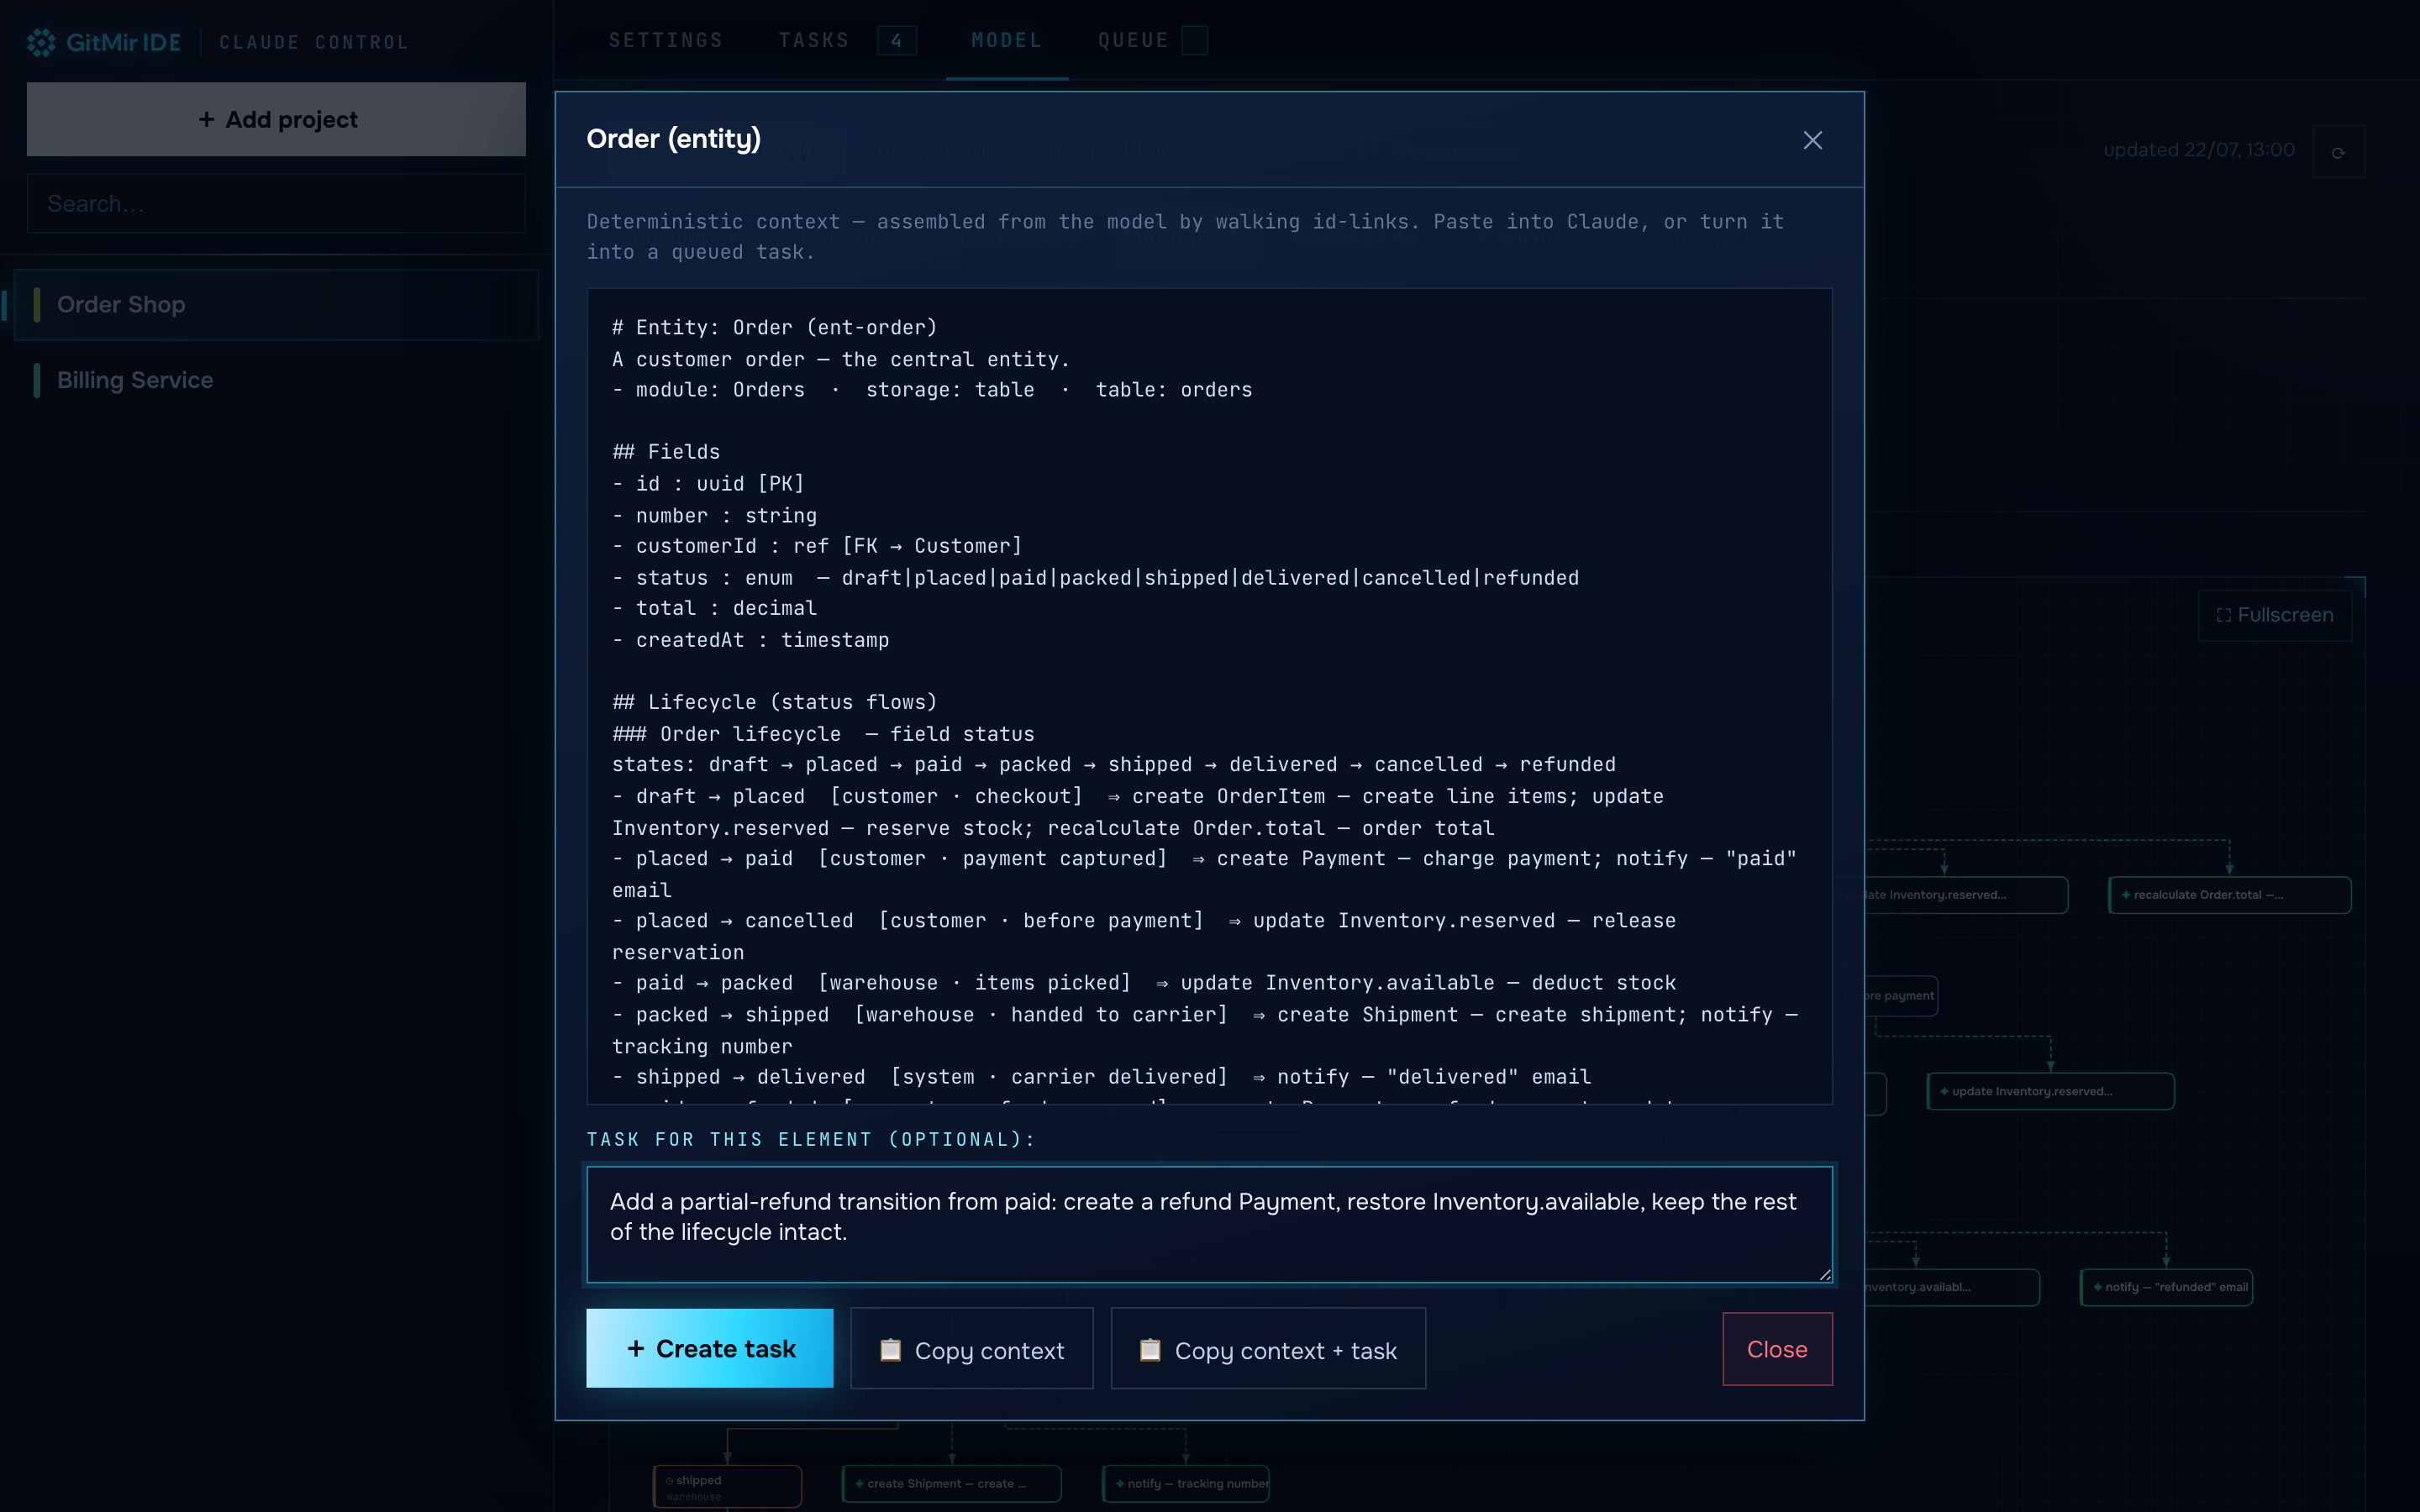
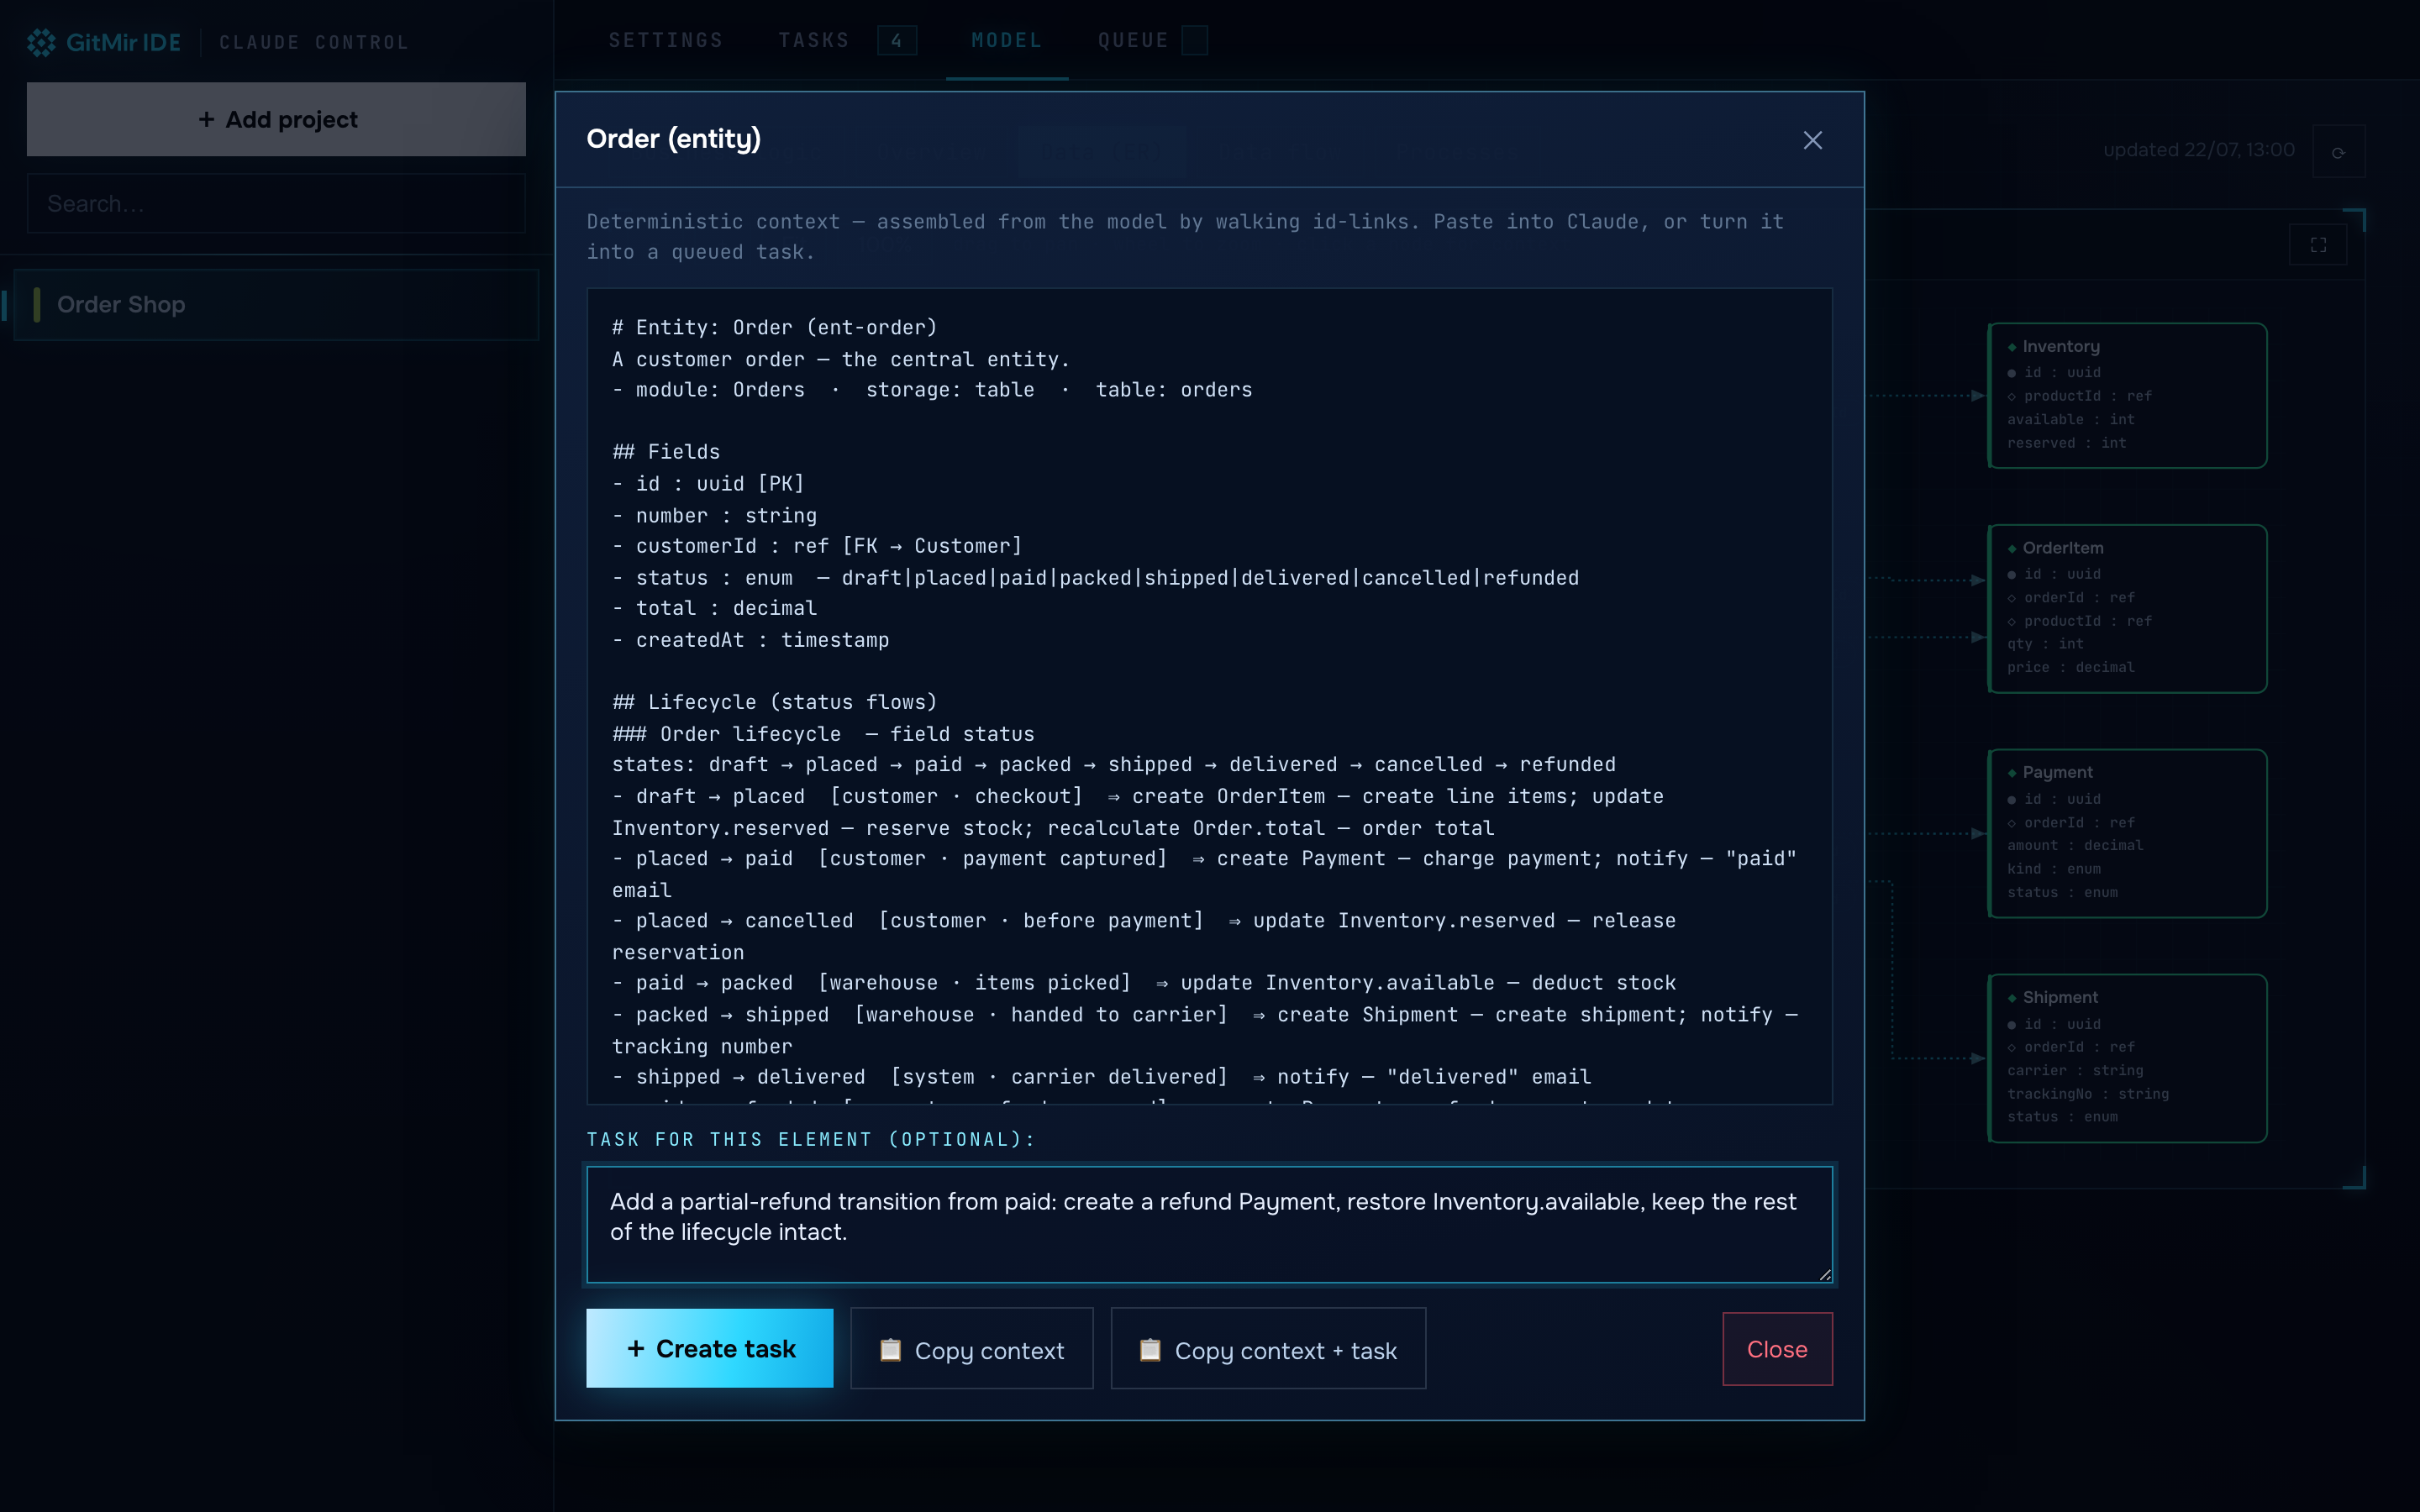
feat(diagrams): in-place pan/zoom canvas + context preamble
- Model diagrams are now a pan/zoom canvas like ide.gitmir.com: drag to pan,
  wheel zooms to the cursor, Fit / 100% / fullscreen — the same camera is used
  inline and in the fullscreen viewer (fixes the old fullscreen zoom).
- Clicking a node still opens its deterministic context; a drag no longer does.
- Copied and queued context now opens with a preamble explaining it is the
  product's GitMir information model (from .gitmir/) to use for accurate execution.
- Refresh Model screenshots to the new canvas toolbar.

diff --git a/server.js b/server.js
@@ -579,6 +579,17 @@ const HTML = /* html */ `<!doctype html>
   .mermaid-wrap svg{max-width:none; height:auto}
   .holo-wrap{overflow:auto; border:1px solid var(--line2); border-radius:12px; background:#061021; max-height:74vh; cursor:zoom-in}
   .holo-wrap svg{display:block; max-width:100%; height:auto}
+  /* pan/zoom diagram canvas (ide.gitmir.com style) */
+  .dgm{position:relative; border:1px solid var(--glass-brd); background:#061021}
+  .dgm-bar{display:flex; align-items:center; gap:6px; padding:8px 10px; border-bottom:1px solid var(--line); background:rgba(6,12,24,.72)}
+  .dgm-b{background:transparent; border:1px solid var(--faint); color:var(--ink-1); padding:5px 11px; cursor:pointer; font-size:13px; min-width:34px; line-height:1}
+  .dgm-b:hover{border-color:var(--cyan); color:var(--cyan)}
+  .dgm-hint{flex:1; color:var(--ink-3); font-family:var(--font-mono); font-size:11px; letter-spacing:.02em; white-space:nowrap; overflow:hidden; text-overflow:ellipsis; padding:0 6px}
+  .dgm-full{min-width:34px}
+  .dgm-canvas{position:relative; height:60vh; overflow:hidden; background:#061021; cursor:grab; touch-action:none}
+  .dgm-canvas.grab{cursor:grabbing}
+  .dgm-stage{position:absolute; top:0; left:0; transform-origin:0 0; will-change:transform}
+  .dgm-stage svg{display:block}
   .mmsrc{overflow:auto; max-height:220px; background:#0b0c10; border:1px solid var(--line); border-radius:8px; padding:10px; font-size:11px; color:var(--dim); margin-top:10px}
   .ov-grid{display:grid; grid-template-columns:repeat(auto-fill,minmax(108px,1fr)); gap:10px; margin-bottom:22px}
   .ov-card{background:var(--panel); border:1px solid var(--line); border-radius:12px; padding:14px 12px; text-align:center}
@@ -630,7 +641,7 @@ const HTML = /* html */ `<!doctype html>
   .fs-hint{color:var(--dim2); font-size:12px; margin-left:6px}
   .fs-close{margin-left:auto; color:var(--danger); font-weight:600}
   .fs-canvas{flex:1; overflow:hidden; position:relative; cursor:grab}
-  .fs-canvas.drag{cursor:grabbing}
+  .fs-canvas.drag, .fs-canvas.grab{cursor:grabbing}
   .fs-stage{position:absolute; top:0; left:0; transform-origin:0 0; will-change:transform}
   .fs-stage svg{display:block}
 
@@ -744,7 +755,7 @@ const HTML = /* html */ `<!doctype html>
   /* diagram frame + corner brackets (HUD signature) */
   .holo-wrap{ border:1px solid var(--glass-brd) }
   .mermaid-box{ position:relative }
-  .mermaid-box::before{ content:""; position:absolute; inset:-1px; pointer-events:none; z-index:3;
+  .dgm::before{ content:""; position:absolute; inset:-1px; pointer-events:none; z-index:3;
     --cb:14px; --cw:2px; --cc:var(--cyan);
     background:
       linear-gradient(90deg,transparent,rgba(95,222,255,.5),transparent) 50% 0/calc(100% - 48px) 1px no-repeat,
@@ -1078,15 +1089,49 @@ async function renderElk(container, spec){
   const ekById=new Map(graph.edges.map(e=>[e.id,e.ekind]));
   for(const e of (laid.edges||[])) if(!e.ekind) e.ekind=ekById.get(e.id);
   const svg=svgFromElk(laid);
-  container.innerHTML='<div class="mermaid-box"><button class="fs-open" title="Open fullscreen">⛶ Fullscreen</button>'+
-    '<div class="holo-wrap" title="Click to open fullscreen">'+svg+'</div></div>';
-  const wrap=container.querySelector('.holo-wrap');
-  container.querySelector('.fs-open').addEventListener('click', (e)=>{ e.stopPropagation(); openDiagramFullscreen(wrap.innerHTML); });
-  wrap.addEventListener('click', (e)=>{
-    const node = e.target.closest('[data-cid]');
-    if(node && node.dataset.cid){ e.stopPropagation(); openContextPopup(node.dataset.ck, node.dataset.cid); return; }
-    openDiagramFullscreen(wrap.innerHTML);
+  container.innerHTML=
+    '<div class="dgm">'+
+      '<div class="dgm-bar">'+
+        '<button class="dgm-b" data-a="out" title="Zoom out">−</button>'+
+        '<button class="dgm-b" data-a="in" title="Zoom in">+</button>'+
+        '<button class="dgm-b" data-a="fit" title="Fit to view">Fit</button>'+
+        '<button class="dgm-b" data-a="reset" title="100%">100%</button>'+
+        '<span class="dgm-hint">drag to pan · wheel to zoom · click a node for context</span>'+
+        '<button class="dgm-b dgm-full" data-a="full" title="Fullscreen">⛶</button>'+
+      '</div>'+
+      '<div class="dgm-canvas"><div class="dgm-stage">'+svg+'</div></div>'+
+    '</div>';
+  const canvas=container.querySelector('.dgm-canvas');
+  const stage=container.querySelector('.dgm-stage');
+  const svgEl=stage.querySelector('svg');
+  const pz=attachPanZoom(canvas, stage, svgEl, (ck,cid)=>openContextPopup(ck,cid));
+  container.querySelector('.dgm-bar').addEventListener('click',(e)=>{ const a=e.target&&e.target.dataset&&e.target.dataset.a; if(!a) return;
+    if(a==='in') pz.zoomCenter(1.2); else if(a==='out') pz.zoomCenter(0.83);
+    else if(a==='fit') pz.fit(); else if(a==='reset') pz.reset();
+    else if(a==='full') openDiagramFullscreen(svgEl.outerHTML);
   });
+}
+
+// Pan/zoom canvas like ide.gitmir.com's VisualBuilder: drag to pan, wheel zooms to
+// the cursor, click (not drag) a node fires onNodeClick.
+function attachPanZoom(canvas, stage, svgEl, onNodeClick){
+  let k=1, x=0, y=0;
+  if(svgEl){ svgEl.style.maxWidth='none'; svgEl.style.maxHeight='none'; }
+  const apply=()=>{ stage.style.transform='translate('+x+'px,'+y+'px) scale('+k+')'; };
+  const nat=()=>{ if(svgEl && svgEl.viewBox && svgEl.viewBox.baseVal && svgEl.viewBox.baseVal.width) return {w:svgEl.viewBox.baseVal.width, h:svgEl.viewBox.baseVal.height}; return {w:800,h:600}; };
+  const fit=()=>{ const cw=canvas.clientWidth, ch=canvas.clientHeight, n=nat(); const s=Math.min(cw/n.w, ch/n.h)*0.94; k=Math.min(1.4, Math.max(0.08, (isFinite(s)&&s>0)?s:1)); x=(cw-n.w*k)/2; y=(ch-n.h*k)/2; apply(); };
+  const reset=()=>{ k=1; x=18; y=18; apply(); };
+  const zoomAt=(f,px,py)=>{ const nk=Math.min(2.6, Math.max(0.1, k*f)); const wx=(px-x)/k, wy=(py-y)/k; k=nk; x=px-wx*k; y=py-wy*k; apply(); };
+  const zoomCenter=f=> zoomAt(f, canvas.clientWidth/2, canvas.clientHeight/2);
+  canvas.addEventListener('wheel',(e)=>{ e.preventDefault(); const r=canvas.getBoundingClientRect(); zoomAt(e.deltaY<0?1.12:0.89, e.clientX-r.left, e.clientY-r.top); }, {passive:false});
+  let drag=false, moved=false, lx=0, ly=0;
+  canvas.addEventListener('mousedown',(e)=>{ if(e.button!==0) return; drag=true; moved=false; lx=e.clientX; ly=e.clientY; canvas.classList.add('grab'); });
+  canvas.addEventListener('mousemove',(e)=>{ if(!drag) return; const dx=e.clientX-lx, dy=e.clientY-ly; if(Math.abs(dx)+Math.abs(dy)>4) moved=true; x+=dx; y+=dy; lx=e.clientX; ly=e.clientY; apply(); });
+  const end=()=>{ drag=false; canvas.classList.remove('grab'); };
+  canvas.addEventListener('mouseup', end); canvas.addEventListener('mouseleave', end);
+  canvas.addEventListener('click',(e)=>{ if(moved){ moved=false; return; } const node=e.target.closest('[data-cid]'); if(node && node.dataset.cid && onNodeClick) onNodeClick(node.dataset.ck, node.dataset.cid); });
+  setTimeout(fit, 30);
+  return { fit, reset, zoomCenter };
 }
 
 async function loadModel(pathStr){
@@ -1141,7 +1186,7 @@ function openDiagramFullscreen(svg){
       '<button class="fs-btn" data-a="in">+</button>'+
       '<button class="fs-btn" data-a="fit">Fit</button>'+
       '<button class="fs-btn" data-a="reset">100%</button>'+
-      '<span class="fs-hint">wheel — zoom · drag — pan</span>'+
+      '<span class="fs-hint">drag to pan · wheel to zoom · click a node for context</span>'+
       '<button class="fs-btn fs-close" data-a="close">✕ Esc</button>'+
     '</div>'+
     '<div class="fs-canvas" id="fsCanvas"><div class="fs-stage" id="fsStage">'+svg+'</div></div>';
@@ -1149,26 +1194,12 @@ function openDiagramFullscreen(svg){
   const canvas=ov.querySelector('#fsCanvas');
   const stage=ov.querySelector('#fsStage');
   const svgEl=stage.querySelector('svg');
-  if(svgEl){ svgEl.style.maxWidth='none'; svgEl.style.maxHeight='none'; }
-  let scale=1, tx=0, ty=0;
-  const apply=()=>{ stage.style.transform='translate('+tx+'px,'+ty+'px) scale('+scale+')'; };
-  const natural=()=>{ if(!svgEl) return {w:800,h:600}; const r=svgEl.getBoundingClientRect(); return {w:r.width/scale, h:r.height/scale}; };
-  const fit=()=>{ const cw=canvas.clientWidth, ch=canvas.clientHeight, n=natural(); const s=Math.min(cw/n.w, ch/n.h)*0.94; scale=(isFinite(s)&&s>0)?s:1; tx=(cw-n.w*scale)/2; ty=(ch-n.h*scale)/2; apply(); };
-  const zoomAt=(f,px,py)=>{ const ns=Math.min(12, Math.max(0.05, scale*f)); const wx=(px-tx)/scale, wy=(py-ty)/scale; scale=ns; tx=px-wx*scale; ty=py-wy*scale; apply(); };
-  canvas.addEventListener('wheel', (e)=>{ e.preventDefault(); const r=canvas.getBoundingClientRect(); zoomAt(e.deltaY<0?1.12:0.89, e.clientX-r.left, e.clientY-r.top); }, {passive:false});
-  let drag=false, lx=0, ly=0;
-  canvas.addEventListener('mousedown', (e)=>{ drag=true; lx=e.clientX; ly=e.clientY; canvas.classList.add('drag'); });
-  canvas.addEventListener('mousemove', (e)=>{ if(!drag) return; tx+=e.clientX-lx; ty+=e.clientY-ly; lx=e.clientX; ly=e.clientY; apply(); });
-  const end=()=>{ drag=false; canvas.classList.remove('drag'); };
-  canvas.addEventListener('mouseup', end); canvas.addEventListener('mouseleave', end);
-  ov.querySelector('.fs-bar').addEventListener('click',(e)=>{ const a=e.target.dataset.a; if(!a) return;
-    if(a==='in') zoomAt(1.25, canvas.clientWidth/2, canvas.clientHeight/2);
-    else if(a==='out') zoomAt(0.8, canvas.clientWidth/2, canvas.clientHeight/2);
-    else if(a==='fit') fit();
-    else if(a==='reset'){ scale=1; tx=20; ty=20; apply(); }
+  const pz=attachPanZoom(canvas, stage, svgEl, (ck,cid)=>openContextPopup(ck,cid));
+  ov.querySelector('.fs-bar').addEventListener('click',(e)=>{ const a=e.target&&e.target.dataset&&e.target.dataset.a; if(!a) return;
+    if(a==='in') pz.zoomCenter(1.2); else if(a==='out') pz.zoomCenter(0.83);
+    else if(a==='fit') pz.fit(); else if(a==='reset') pz.reset();
     else if(a==='close') fsClose();
   });
-  setTimeout(fit, 40);
 }
 
 // ----- helpers -----
@@ -1251,16 +1282,17 @@ function openContextPopup(kind,id){
     '</div>';
   ov.classList.add('show');
   const ta=ov.querySelector('.ctx-task');
-  const withTask=()=> ctx + (ta.value.trim()? '\\n\\n---\\n## Task\\n'+ta.value.trim() : '');
+  const CTXPRE='This is deterministic context extracted from the product information model — the GitMir multidimensional object model that lives in the .gitmir/ folder of this project. It maps how this element connects to the rest of the product (data, server logic, API, frontend, events, business processes, status flows, reactions) by stable ids. Use it to fully understand the context, so the task is carried out accurately and completely.';
+  const withTask=()=> CTXPRE+'\\n\\n'+ctx + (ta.value.trim()? '\\n\\n---\\n## Task\\n'+ta.value.trim() : '');
   const close=()=>{ ov.classList.remove('show'); ov.innerHTML=''; };
   ov.querySelector('.ctx-x').addEventListener('click', close);
   ov.querySelector('.ctx-close').addEventListener('click', close);
   ov.addEventListener('click', e=>{ if(e.target===ov) close(); });
-  ov.querySelector('.ctx-copy').addEventListener('click', async ()=>{ await copyToClipboard(ctx); toast('Context copied ✓  paste into claude'); });
+  ov.querySelector('.ctx-copy').addEventListener('click', async ()=>{ await copyToClipboard(CTXPRE+'\\n\\n'+ctx); toast('Context copied ✓  paste into claude'); });
   ov.querySelector('.ctx-copyt').addEventListener('click', async ()=>{ await copyToClipboard(withTask()); toast('Context + task copied ✓'); });
   ov.querySelector('.ctx-create').addEventListener('click', async ()=>{
     const t=ta.value.trim(); if(!t){ toast('Type the task first', true); ta.focus(); return; }
-    const content='# '+title+' — '+t.split('\\n')[0].slice(0,80)+'\\n\\n## Task\\n'+t+'\\n\\n## Context (from the model)\\n'+ctx+'\\n';
+    const content='# '+title+' — '+t.split('\\n')[0].slice(0,80)+'\\n\\n> '+CTXPRE+'\\n\\n## Task\\n'+t+'\\n\\n## Context (from the .gitmir model)\\n'+ctx+'\\n';
     const r=await fetch('/api/task',{method:'POST',headers:{'Content-Type':'application/json'},body:JSON.stringify({path:selected, title:title+' — '+t.slice(0,40), content})});
     const d=await r.json();
     if(d.ok){ toast('Task created in tasks/todo ✓'); close(); if(activeTab==='queue') loadQueue(selected); }